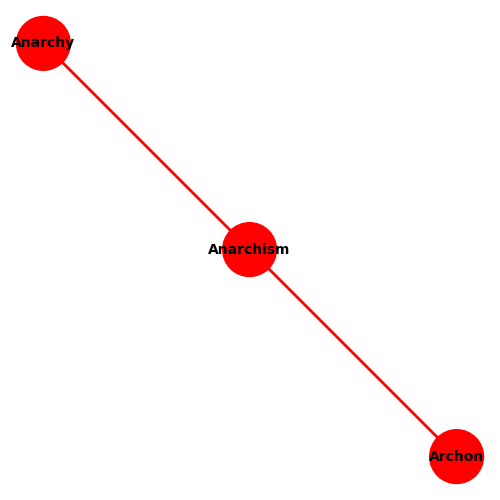
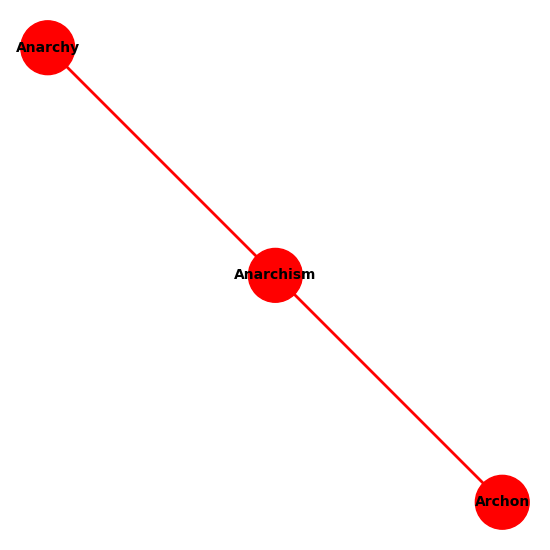
visualizer works for both dfs and bfs!

diff --git a/visualize.py b/visualize.py
@@ -41,7 +41,7 @@ def visualize_graph_with_path(G, path, image_filename="static/graph.png"):
             node_colors.append("lightblue")  # Other nodes in light blue
 
     # Draw the graph with custom colors and save it as an image
-    plt.figure(figsize=(7, 7))
+    plt.figure(figsize=(5.5, 5.5))
     nx.draw(G, with_labels=True, node_color=node_colors, edge_color=edge_colors,
             font_size=10, node_size=1500, font_weight="bold", width=2)
     plt.savefig(image_filename)
